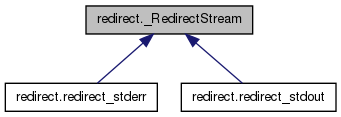
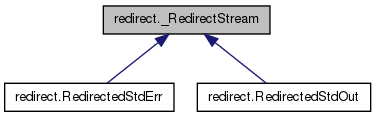
Automated documentation build for changeset faf66384ace8d232c6253e42a60ff0dd67d683bb.

diff --git a/html-docs/classes.html b/html-docs/classes.html
@@ -131,9 +131,9 @@ $(function() {
 </td><td valign="top"><a class="el" href="classtrace__analysis__logic_1_1TraceAnalysisLogic.html">TraceAnalysisLogic</a> (trace_analysis_logic)&#160;&#160;&#160;</td></tr>
 <tr><td valign="top"><a class="el" href="classgui_1_1confocal_1_1confocalgui_1_1ConfocalMainWindow.html">ConfocalMainWindow</a> (gui.confocal.confocalgui)&#160;&#160;&#160;</td><td valign="top"><a class="el" href="classfast__counter__dummy_1_1InterfaceImplementationError.html">InterfaceImplementationError</a> (fast_counter_dummy)&#160;&#160;&#160;</td><td valign="top"><a class="el" href="classok__fpga__pulser_1_1OkFpgaPulser.html">OkFpgaPulser</a> (ok_fpga_pulser)&#160;&#160;&#160;</td><td valign="top"><a class="el" href="classgui_1_1trayicon_1_1TrayIcon.html">TrayIcon</a> (gui.trayicon)&#160;&#160;&#160;</td></tr>
 <tr><td valign="top"><a class="el" href="classconfocal__scanner__dummy_1_1ConfocalScannerDummy.html">ConfocalScannerDummy</a> (confocal_scanner_dummy)&#160;&#160;&#160;</td><td valign="top"><a class="el" href="classcore_1_1util_1_1interfaces_1_1InterfaceMetaclass.html">InterfaceMetaclass</a> (core.util.interfaces)&#160;&#160;&#160;</td><td valign="top"><a class="el" href="classok__fpga__switch_1_1OkFpgaTtlSwitch.html">OkFpgaTtlSwitch</a> (ok_fpga_switch)&#160;&#160;&#160;</td><td valign="top"><a class="el" href="classcore_1_1util_1_1mutex_1_1RecursiveMutex.html">RecursiveMutex</a> (core.util.mutex)&#160;&#160;&#160;</td><td valign="top"><a class="el" href="classautomation_1_1TreeItem.html">TreeItem</a> (automation)&#160;&#160;&#160;</td></tr>
-<tr><td valign="top"><a class="el" href="classconfocal__scanner__interface_1_1ConfocalScannerInterface.html">ConfocalScannerInterface</a> (confocal_scanner_interface)&#160;&#160;&#160;</td><td valign="top"><a class="el" href="classgeneric__task_1_1InterruptableTask.html">InterruptableTask</a> (generic_task)&#160;&#160;&#160;</td><td valign="top"><a class="el" href="classconfocal__logic_1_1OldConfigFileError.html">OldConfigFileError</a> (confocal_logic)&#160;&#160;&#160;</td><td valign="top"><a class="el" href="classredirect_1_1redirect__stderr.html">redirect_stderr</a> (redirect)&#160;&#160;&#160;</td><td valign="top"><a class="el" href="classautomation_1_1TreeModel.html">TreeModel</a> (automation)&#160;&#160;&#160;</td></tr>
+<tr><td valign="top"><a class="el" href="classconfocal__scanner__interface_1_1ConfocalScannerInterface.html">ConfocalScannerInterface</a> (confocal_scanner_interface)&#160;&#160;&#160;</td><td valign="top"><a class="el" href="classgeneric__task_1_1InterruptableTask.html">InterruptableTask</a> (generic_task)&#160;&#160;&#160;</td><td valign="top"><a class="el" href="classconfocal__logic_1_1OldConfigFileError.html">OldConfigFileError</a> (confocal_logic)&#160;&#160;&#160;</td><td valign="top"><a class="el" href="classredirect_1_1RedirectedStdErr.html">RedirectedStdErr</a> (redirect)&#160;&#160;&#160;</td><td valign="top"><a class="el" href="classautomation_1_1TreeModel.html">TreeModel</a> (automation)&#160;&#160;&#160;</td></tr>
 <tr><td valign="top"><a class="el" href="classmw__differential__scanner_1_1ConfocalScannerInterfaceDummy.html">ConfocalScannerInterfaceDummy</a> (mw_differential_scanner)&#160;&#160;&#160;</td><td rowspan="2" valign="bottom"><a name="letter_l"></a><table border="0" cellspacing="0" cellpadding="0"><tr><td><div class="ah">&#160;&#160;l&#160;&#160;</div></td></tr></table>
-</td><td valign="top"><a class="el" href="classoptimizer__logic_1_1OptimizerLogic.html">OptimizerLogic</a> (optimizer_logic)&#160;&#160;&#160;</td><td valign="top"><a class="el" href="classredirect_1_1redirect__stdout.html">redirect_stdout</a> (redirect)&#160;&#160;&#160;</td><td valign="top"><a class="el" href="classmicrowave__interface_1_1TriggerEdge.html">TriggerEdge</a> (microwave_interface)&#160;&#160;&#160;</td></tr>
+</td><td valign="top"><a class="el" href="classoptimizer__logic_1_1OptimizerLogic.html">OptimizerLogic</a> (optimizer_logic)&#160;&#160;&#160;</td><td valign="top"><a class="el" href="classredirect_1_1RedirectedStdOut.html">RedirectedStdOut</a> (redirect)&#160;&#160;&#160;</td><td valign="top"><a class="el" href="classmicrowave__interface_1_1TriggerEdge.html">TriggerEdge</a> (microwave_interface)&#160;&#160;&#160;</td></tr>
 <tr><td valign="top"><a class="el" href="classgui_1_1confocal_1_1confocalgui_1_1ConfocalSettingDialog.html">ConfocalSettingDialog</a> (gui.confocal.confocalgui)&#160;&#160;&#160;</td><td valign="top"><a class="el" href="classgui_1_1confocal_1_1confocalgui_1_1OptimizerSettingDialog.html">OptimizerSettingDialog</a> (gui.confocal.confocalgui)&#160;&#160;&#160;</td><td valign="top"><a class="el" href="classcore_1_1remote_1_1RemoteModule.html">RemoteModule</a> (core.remote)&#160;&#160;&#160;</td><td valign="top"><a class="el" href="classtsys01__spi_1_1TSYS01SPI.html">TSYS01SPI</a> (tsys01_spi)&#160;&#160;&#160;</td></tr>
 <tr><td valign="top"><a class="el" href="classgui_1_1manager_1_1managergui_1_1ConsoleSettingsDialog.html">ConsoleSettingsDialog</a> (gui.manager.managergui)&#160;&#160;&#160;</td><td valign="top"><a class="el" href="classlaser_1_1LaserGUI.html">LaserGUI</a> (laser)&#160;&#160;&#160;</td><td rowspan="2" valign="bottom"><a name="letter_p"></a><table border="0" cellspacing="0" cellpadding="0"><tr><td><div class="ah">&#160;&#160;p&#160;&#160;</div></td></tr></table>
 </td><td valign="top"><a class="el" href="classcore_1_1remote_1_1RemoteObjectManager.html">RemoteObjectManager</a> (core.remote)&#160;&#160;&#160;</td><td rowspan="2" valign="bottom"><a name="letter_v"></a><table border="0" cellspacing="0" cellpadding="0"><tr><td><div class="ah">&#160;&#160;v&#160;&#160;</div></td></tr></table>

diff --git a/html-docs/classredirect_1_1RedirectedStdErr.html b/html-docs/classredirect_1_1RedirectedStdErr.html
@@ -5,7 +5,7 @@
 <meta http-equiv="X-UA-Compatible" content="IE=9"/>
 <meta name="generator" content="Doxygen 1.8.13"/>
 <meta name="viewport" content="width=device-width, initial-scale=1"/>
-<title>Qudi: redirect.redirect_stdout Class Reference</title>
+<title>Qudi: redirect.RedirectedStdErr Class Reference</title>
 <link href="tabs.css" rel="stylesheet" type="text/css"/>
 <script type="text/javascript" src="jquery.js"></script>
 <script type="text/javascript" src="dynsections.js"></script>
@@ -58,33 +58,33 @@ $(function() {
 
 <div id="nav-path" class="navpath">
   <ul>
-<li class="navelem"><b>redirect</b></li><li class="navelem"><a class="el" href="classredirect_1_1redirect__stdout.html">redirect_stdout</a></li>  </ul>
+<li class="navelem"><b>redirect</b></li><li class="navelem"><a class="el" href="classredirect_1_1RedirectedStdErr.html">RedirectedStdErr</a></li>  </ul>
 </div>
 </div><!-- top -->
 <div class="header">
   <div class="summary">
-<a href="classredirect_1_1redirect__stdout-members.html">List of all members</a>  </div>
+<a href="classredirect_1_1RedirectedStdErr-members.html">List of all members</a>  </div>
   <div class="headertitle">
-<div class="title">redirect.redirect_stdout Class Reference</div>  </div>
+<div class="title">redirect.RedirectedStdErr Class Reference</div>  </div>
 </div><!--header-->
 <div class="contents">
 
-<p>Context manager for temporarily redirecting stdout to another file.  
- <a href="classredirect_1_1redirect__stdout.html#details">More...</a></p>
+<p>Context manager for temporarily redirecting stderr to another file.  
+ <a href="classredirect_1_1RedirectedStdErr.html#details">More...</a></p>
 <div class="dynheader">
-Inheritance diagram for redirect.redirect_stdout:</div>
+Inheritance diagram for redirect.RedirectedStdErr:</div>
 <div class="dyncontent">
-<div class="center"><img src="classredirect_1_1redirect__stdout__inherit__graph.png" border="0" usemap="#redirect_8redirect__stdout_inherit__map" alt="Inheritance graph"/></div>
-<map name="redirect_8redirect__stdout_inherit__map" id="redirect_8redirect__stdout_inherit__map">
-<area shape="rect" id="node2" href="classredirect_1_1__RedirectStream.html" title="A base class for a context manager to redirect streams from the sys module. " alt="" coords="5,5,171,35"/>
+<div class="center"><img src="classredirect_1_1RedirectedStdErr__inherit__graph.png" border="0" usemap="#redirect_8RedirectedStdErr_inherit__map" alt="Inheritance graph"/></div>
+<map name="redirect_8RedirectedStdErr_inherit__map" id="redirect_8RedirectedStdErr_inherit__map">
+<area shape="rect" id="node2" href="classredirect_1_1__RedirectStream.html" title="A base class for a context manager to redirect streams from the sys module. " alt="" coords="7,5,172,35"/>
 </map>
 <center><span class="legend">[<a href="graph_legend.html">legend</a>]</span></center></div>
 <div class="dynheader">
-Collaboration diagram for redirect.redirect_stdout:</div>
+Collaboration diagram for redirect.RedirectedStdErr:</div>
 <div class="dyncontent">
-<div class="center"><img src="classredirect_1_1redirect__stdout__coll__graph.png" border="0" usemap="#redirect_8redirect__stdout_coll__map" alt="Collaboration graph"/></div>
-<map name="redirect_8redirect__stdout_coll__map" id="redirect_8redirect__stdout_coll__map">
-<area shape="rect" id="node2" href="classredirect_1_1__RedirectStream.html" title="A base class for a context manager to redirect streams from the sys module. " alt="" coords="5,5,171,35"/>
+<div class="center"><img src="classredirect_1_1RedirectedStdErr__coll__graph.png" border="0" usemap="#redirect_8RedirectedStdErr_coll__map" alt="Collaboration graph"/></div>
+<map name="redirect_8RedirectedStdErr_coll__map" id="redirect_8RedirectedStdErr_coll__map">
+<area shape="rect" id="node2" href="classredirect_1_1__RedirectStream.html" title="A base class for a context manager to redirect streams from the sys module. " alt="" coords="7,5,172,35"/>
 </map>
 <center><span class="legend">[<a href="graph_legend.html">legend</a>]</span></center></div>
 <table class="memberdecls">
@@ -102,7 +102,7 @@ def&#160;</td><td class="memItemRight" valign="bottom"><b>__exit__</b> (self, ex
 <tr class="separator:a74fb842fb74b35fe0133f74d870e32a0 inherit pub_methods_classredirect_1_1__RedirectStream"><td class="memSeparator" colspan="2">&#160;</td></tr>
 </table>
 <a name="details" id="details"></a><h2 class="groupheader">Detailed Description</h2>
-<div class="textblock"><p>Context manager for temporarily redirecting stdout to another file. </p>
+<div class="textblock"><p>Context manager for temporarily redirecting stderr to another file. </p>
 </div><hr/>The documentation for this class was generated from the following file:<ul>
 <li>logic/jupyterkernel/redirect.py</li>
 </ul>

diff --git a/html-docs/classredirect_1_1RedirectedStdOut.html b/html-docs/classredirect_1_1RedirectedStdOut.html
@@ -5,7 +5,7 @@
 <meta http-equiv="X-UA-Compatible" content="IE=9"/>
 <meta name="generator" content="Doxygen 1.8.13"/>
 <meta name="viewport" content="width=device-width, initial-scale=1"/>
-<title>Qudi: redirect.redirect_stderr Class Reference</title>
+<title>Qudi: redirect.RedirectedStdOut Class Reference</title>
 <link href="tabs.css" rel="stylesheet" type="text/css"/>
 <script type="text/javascript" src="jquery.js"></script>
 <script type="text/javascript" src="dynsections.js"></script>
@@ -58,33 +58,33 @@ $(function() {
 
 <div id="nav-path" class="navpath">
   <ul>
-<li class="navelem"><b>redirect</b></li><li class="navelem"><a class="el" href="classredirect_1_1redirect__stderr.html">redirect_stderr</a></li>  </ul>
+<li class="navelem"><b>redirect</b></li><li class="navelem"><a class="el" href="classredirect_1_1RedirectedStdOut.html">RedirectedStdOut</a></li>  </ul>
 </div>
 </div><!-- top -->
 <div class="header">
   <div class="summary">
-<a href="classredirect_1_1redirect__stderr-members.html">List of all members</a>  </div>
+<a href="classredirect_1_1RedirectedStdOut-members.html">List of all members</a>  </div>
   <div class="headertitle">
-<div class="title">redirect.redirect_stderr Class Reference</div>  </div>
+<div class="title">redirect.RedirectedStdOut Class Reference</div>  </div>
 </div><!--header-->
 <div class="contents">
 
-<p>Context manager for temporarily redirecting stderr to another file.  
- <a href="classredirect_1_1redirect__stderr.html#details">More...</a></p>
+<p>Context manager for temporarily redirecting stdout to another file.  
+ <a href="classredirect_1_1RedirectedStdOut.html#details">More...</a></p>
 <div class="dynheader">
-Inheritance diagram for redirect.redirect_stderr:</div>
+Inheritance diagram for redirect.RedirectedStdOut:</div>
 <div class="dyncontent">
-<div class="center"><img src="classredirect_1_1redirect__stderr__inherit__graph.png" border="0" usemap="#redirect_8redirect__stderr_inherit__map" alt="Inheritance graph"/></div>
-<map name="redirect_8redirect__stderr_inherit__map" id="redirect_8redirect__stderr_inherit__map">
-<area shape="rect" id="node2" href="classredirect_1_1__RedirectStream.html" title="A base class for a context manager to redirect streams from the sys module. " alt="" coords="5,5,171,35"/>
+<div class="center"><img src="classredirect_1_1RedirectedStdOut__inherit__graph.png" border="0" usemap="#redirect_8RedirectedStdOut_inherit__map" alt="Inheritance graph"/></div>
+<map name="redirect_8RedirectedStdOut_inherit__map" id="redirect_8RedirectedStdOut_inherit__map">
+<area shape="rect" id="node2" href="classredirect_1_1__RedirectStream.html" title="A base class for a context manager to redirect streams from the sys module. " alt="" coords="9,5,175,35"/>
 </map>
 <center><span class="legend">[<a href="graph_legend.html">legend</a>]</span></center></div>
 <div class="dynheader">
-Collaboration diagram for redirect.redirect_stderr:</div>
+Collaboration diagram for redirect.RedirectedStdOut:</div>
 <div class="dyncontent">
-<div class="center"><img src="classredirect_1_1redirect__stderr__coll__graph.png" border="0" usemap="#redirect_8redirect__stderr_coll__map" alt="Collaboration graph"/></div>
-<map name="redirect_8redirect__stderr_coll__map" id="redirect_8redirect__stderr_coll__map">
-<area shape="rect" id="node2" href="classredirect_1_1__RedirectStream.html" title="A base class for a context manager to redirect streams from the sys module. " alt="" coords="5,5,171,35"/>
+<div class="center"><img src="classredirect_1_1RedirectedStdOut__coll__graph.png" border="0" usemap="#redirect_8RedirectedStdOut_coll__map" alt="Collaboration graph"/></div>
+<map name="redirect_8RedirectedStdOut_coll__map" id="redirect_8RedirectedStdOut_coll__map">
+<area shape="rect" id="node2" href="classredirect_1_1__RedirectStream.html" title="A base class for a context manager to redirect streams from the sys module. " alt="" coords="9,5,175,35"/>
 </map>
 <center><span class="legend">[<a href="graph_legend.html">legend</a>]</span></center></div>
 <table class="memberdecls">
@@ -102,7 +102,7 @@ def&#160;</td><td class="memItemRight" valign="bottom"><b>__exit__</b> (self, ex
 <tr class="separator:a74fb842fb74b35fe0133f74d870e32a0 inherit pub_methods_classredirect_1_1__RedirectStream"><td class="memSeparator" colspan="2">&#160;</td></tr>
 </table>
 <a name="details" id="details"></a><h2 class="groupheader">Detailed Description</h2>
-<div class="textblock"><p>Context manager for temporarily redirecting stderr to another file. </p>
+<div class="textblock"><p>Context manager for temporarily redirecting stdout to another file. </p>
 </div><hr/>The documentation for this class was generated from the following file:<ul>
 <li>logic/jupyterkernel/redirect.py</li>
 </ul>

diff --git a/html-docs/hierarchy.html b/html-docs/hierarchy.html
@@ -67,8 +67,8 @@ $(function() {
 This inheritance list is sorted roughly, but not completely, alphabetically:</div><div class="directory">
 <div class="levels">[detail level <span onclick="javascript:toggleLevel(1);">1</span><span onclick="javascript:toggleLevel(2);">2</span><span onclick="javascript:toggleLevel(3);">3</span><span onclick="javascript:toggleLevel(4);">4</span>]</div><table class="directory">
 <tr id="row_0_" class="even"><td class="entry"><span style="width:0px;display:inline-block;">&#160;</span><span id="arr_0_" class="arrow" onclick="toggleFolder('0_')">&#9658;</span><span class="icona"><span class="icon">C</span></span><a class="el" href="classredirect_1_1__RedirectStream.html" target="_self">redirect._RedirectStream</a></td><td class="desc">A base class for a context manager to redirect streams from the sys module </td></tr>
-<tr id="row_0_0_" style="display:none;"><td class="entry"><span style="width:32px;display:inline-block;">&#160;</span><span class="icona"><span class="icon">C</span></span><a class="el" href="classredirect_1_1redirect__stderr.html" target="_self">redirect.redirect_stderr</a></td><td class="desc">Context manager for temporarily redirecting stderr to another file </td></tr>
-<tr id="row_0_1_" style="display:none;"><td class="entry"><span style="width:32px;display:inline-block;">&#160;</span><span class="icona"><span class="icon">C</span></span><a class="el" href="classredirect_1_1redirect__stdout.html" target="_self">redirect.redirect_stdout</a></td><td class="desc">Context manager for temporarily redirecting stdout to another file </td></tr>
+<tr id="row_0_0_" style="display:none;"><td class="entry"><span style="width:32px;display:inline-block;">&#160;</span><span class="icona"><span class="icon">C</span></span><a class="el" href="classredirect_1_1RedirectedStdErr.html" target="_self">redirect.RedirectedStdErr</a></td><td class="desc">Context manager for temporarily redirecting stderr to another file </td></tr>
+<tr id="row_0_1_" style="display:none;"><td class="entry"><span style="width:32px;display:inline-block;">&#160;</span><span class="icona"><span class="icon">C</span></span><a class="el" href="classredirect_1_1RedirectedStdOut.html" target="_self">redirect.RedirectedStdOut</a></td><td class="desc">Context manager for temporarily redirecting stdout to another file </td></tr>
 <tr id="row_1_"><td class="entry"><span style="width:0px;display:inline-block;">&#160;</span><span id="arr_1_" class="arrow" onclick="toggleFolder('1_')">&#9658;</span><span class="icona"><span class="icon">C</span></span><b>ABCMeta</b></td><td class="desc"></td></tr>
 <tr id="row_1_0_" class="even" style="display:none;"><td class="entry"><span style="width:16px;display:inline-block;">&#160;</span><span id="arr_1_0_" class="arrow" onclick="toggleFolder('1_0_')">&#9658;</span><span class="icona"><span class="icon">C</span></span><a class="el" href="classcore_1_1util_1_1interfaces_1_1InterfaceMetaclass.html" target="_self">core.util.interfaces.InterfaceMetaclass</a></td><td class="desc">Metaclass for interfaces </td></tr>
 <tr id="row_1_0_0_" class="even" style="display:none;"><td class="entry"><span style="width:48px;display:inline-block;">&#160;</span><span class="icona"><span class="icon">C</span></span><a class="el" href="classconfocal__scanner__interface_1_1ConfocalScannerInterface.html" target="_self">confocal_scanner_interface.ConfocalScannerInterface</a></td><td class="desc">This is the Interface class to define the controls for the simple microwave hardware </td></tr>

diff --git a/html-docs/annotated.html b/html-docs/annotated.html
@@ -492,8 +492,8 @@ $(function() {
 <tr id="row_98_1_" style="display:none;"><td class="entry"><span style="width:32px;display:inline-block;">&#160;</span><span class="icona"><span class="icon">C</span></span><a class="el" href="classqzmqkernel_1_1QZMQKernel.html" target="_self">QZMQKernel</a></td><td class="desc">A Qt-based embeddable kernel for Jupyter </td></tr>
 <tr id="row_99_"><td class="entry"><span style="width:0px;display:inline-block;">&#160;</span><span id="arr_99_" class="arrow" onclick="toggleFolder('99_')">&#9658;</span><span class="icona"><span class="icon">N</span></span><b>redirect</b></td><td class="desc"></td></tr>
 <tr id="row_99_0_" class="even" style="display:none;"><td class="entry"><span style="width:32px;display:inline-block;">&#160;</span><span class="icona"><span class="icon">C</span></span><a class="el" href="classredirect_1_1__RedirectStream.html" target="_self">_RedirectStream</a></td><td class="desc">A base class for a context manager to redirect streams from the sys module </td></tr>
-<tr id="row_99_1_" class="even" style="display:none;"><td class="entry"><span style="width:32px;display:inline-block;">&#160;</span><span class="icona"><span class="icon">C</span></span><a class="el" href="classredirect_1_1redirect__stderr.html" target="_self">redirect_stderr</a></td><td class="desc">Context manager for temporarily redirecting stderr to another file </td></tr>
-<tr id="row_99_2_" class="even" style="display:none;"><td class="entry"><span style="width:32px;display:inline-block;">&#160;</span><span class="icona"><span class="icon">C</span></span><a class="el" href="classredirect_1_1redirect__stdout.html" target="_self">redirect_stdout</a></td><td class="desc">Context manager for temporarily redirecting stdout to another file </td></tr>
+<tr id="row_99_1_" class="even" style="display:none;"><td class="entry"><span style="width:32px;display:inline-block;">&#160;</span><span class="icona"><span class="icon">C</span></span><a class="el" href="classredirect_1_1RedirectedStdErr.html" target="_self">RedirectedStdErr</a></td><td class="desc">Context manager for temporarily redirecting stderr to another file </td></tr>
+<tr id="row_99_2_" class="even" style="display:none;"><td class="entry"><span style="width:32px;display:inline-block;">&#160;</span><span class="icona"><span class="icon">C</span></span><a class="el" href="classredirect_1_1RedirectedStdOut.html" target="_self">RedirectedStdOut</a></td><td class="desc">Context manager for temporarily redirecting stdout to another file </td></tr>
 <tr id="row_100_" class="even"><td class="entry"><span style="width:0px;display:inline-block;">&#160;</span><span id="arr_100_" class="arrow" onclick="toggleFolder('100_')">&#9658;</span><span class="icona"><span class="icon">N</span></span><b>samples_write_methods</b></td><td class="desc"></td></tr>
 <tr id="row_100_0_" style="display:none;"><td class="entry"><span style="width:32px;display:inline-block;">&#160;</span><span class="icona"><span class="icon">C</span></span><a class="el" href="classsamples__write__methods_1_1SamplesWriteMethods.html" target="_self">SamplesWriteMethods</a></td><td class="desc"></td></tr>
 <tr id="row_101_"><td class="entry"><span style="width:0px;display:inline-block;">&#160;</span><span id="arr_101_" class="arrow" onclick="toggleFolder('101_')">&#9658;</span><span class="icona"><span class="icon">N</span></span><b>sampling_functions</b></td><td class="desc"></td></tr>

diff --git a/html-docs/classredirect_1_1RedirectedStdErr-members.html b/html-docs/classredirect_1_1RedirectedStdErr-members.html
@@ -58,16 +58,16 @@ $(function() {
 
 <div id="nav-path" class="navpath">
   <ul>
-<li class="navelem"><b>redirect</b></li><li class="navelem"><a class="el" href="classredirect_1_1redirect__stdout.html">redirect_stdout</a></li>  </ul>
+<li class="navelem"><b>redirect</b></li><li class="navelem"><a class="el" href="classredirect_1_1RedirectedStdErr.html">RedirectedStdErr</a></li>  </ul>
 </div>
 </div><!-- top -->
 <div class="header">
   <div class="headertitle">
-<div class="title">redirect.redirect_stdout Member List</div>  </div>
+<div class="title">redirect.RedirectedStdErr Member List</div>  </div>
 </div><!--header-->
 <div class="contents">
 
-<p>This is the complete list of members for <a class="el" href="classredirect_1_1redirect__stdout.html">redirect.redirect_stdout</a>, including all inherited members.</p>
+<p>This is the complete list of members for <a class="el" href="classredirect_1_1RedirectedStdErr.html">redirect.RedirectedStdErr</a>, including all inherited members.</p>
 <table class="directory">
   <tr bgcolor="#f0f0f0" class="even"><td class="entry"><b>__enter__</b>(self) (defined in <a class="el" href="classredirect_1_1__RedirectStream.html">redirect._RedirectStream</a>)</td><td class="entry"><a class="el" href="classredirect_1_1__RedirectStream.html">redirect._RedirectStream</a></td><td class="entry"></td></tr>
   <tr bgcolor="#f0f0f0"><td class="entry"><b>__exit__</b>(self, exctype, excinst, exctb) (defined in <a class="el" href="classredirect_1_1__RedirectStream.html">redirect._RedirectStream</a>)</td><td class="entry"><a class="el" href="classredirect_1_1__RedirectStream.html">redirect._RedirectStream</a></td><td class="entry"></td></tr>

diff --git a/html-docs/classredirect_1_1RedirectedStdOut-members.html b/html-docs/classredirect_1_1RedirectedStdOut-members.html
@@ -58,16 +58,16 @@ $(function() {
 
 <div id="nav-path" class="navpath">
   <ul>
-<li class="navelem"><b>redirect</b></li><li class="navelem"><a class="el" href="classredirect_1_1redirect__stderr.html">redirect_stderr</a></li>  </ul>
+<li class="navelem"><b>redirect</b></li><li class="navelem"><a class="el" href="classredirect_1_1RedirectedStdOut.html">RedirectedStdOut</a></li>  </ul>
 </div>
 </div><!-- top -->
 <div class="header">
   <div class="headertitle">
-<div class="title">redirect.redirect_stderr Member List</div>  </div>
+<div class="title">redirect.RedirectedStdOut Member List</div>  </div>
 </div><!--header-->
 <div class="contents">
 
-<p>This is the complete list of members for <a class="el" href="classredirect_1_1redirect__stderr.html">redirect.redirect_stderr</a>, including all inherited members.</p>
+<p>This is the complete list of members for <a class="el" href="classredirect_1_1RedirectedStdOut.html">redirect.RedirectedStdOut</a>, including all inherited members.</p>
 <table class="directory">
   <tr bgcolor="#f0f0f0" class="even"><td class="entry"><b>__enter__</b>(self) (defined in <a class="el" href="classredirect_1_1__RedirectStream.html">redirect._RedirectStream</a>)</td><td class="entry"><a class="el" href="classredirect_1_1__RedirectStream.html">redirect._RedirectStream</a></td><td class="entry"></td></tr>
   <tr bgcolor="#f0f0f0"><td class="entry"><b>__exit__</b>(self, exctype, excinst, exctb) (defined in <a class="el" href="classredirect_1_1__RedirectStream.html">redirect._RedirectStream</a>)</td><td class="entry"><a class="el" href="classredirect_1_1__RedirectStream.html">redirect._RedirectStream</a></td><td class="entry"></td></tr>

diff --git a/html-docs/search/all_12.js b/html-docs/search/all_12.js
@@ -18,8 +18,8 @@ var searchData=
   ['recursiveload',['recursiveLoad',['../classautomation_1_1TreeModel.html#abd74f1921f5df33e76b395b14e7b0911',1,'automation::TreeModel']]],
   ['recursivemutex',['RecursiveMutex',['../classcore_1_1util_1_1mutex_1_1RecursiveMutex.html',1,'core::util::mutex']]],
   ['recursivesave',['recursiveSave',['../classautomation_1_1TreeModel.html#afafe4426df7bc4ada2ac2bfdb52d708f',1,'automation::TreeModel']]],
-  ['redirect_5fstderr',['redirect_stderr',['../classredirect_1_1redirect__stderr.html',1,'redirect']]],
-  ['redirect_5fstdout',['redirect_stdout',['../classredirect_1_1redirect__stdout.html',1,'redirect']]],
+  ['redirectedstderr',['RedirectedStdErr',['../classredirect_1_1RedirectedStdErr.html',1,'redirect']]],
+  ['redirectedstdout',['RedirectedStdOut',['../classredirect_1_1RedirectedStdOut.html',1,'redirect']]],
   ['ref_5fa_5fat_5fcrosshair',['ref_a_at_crosshair',['../classgui_1_1poimanager_1_1poimangui_1_1PoiManagerGui.html#aa159b62034a0410ed4be7e6b6d1071aa',1,'gui::poimanager::poimangui::PoiManagerGui']]],
   ['ref_5fb_5fat_5fcrosshair',['ref_b_at_crosshair',['../classgui_1_1poimanager_1_1poimangui_1_1PoiManagerGui.html#a586d377df98fc62ad286f747d43e863e',1,'gui::poimanager::poimangui::PoiManagerGui']]],
   ['ref_5fc_5fat_5fcrosshair',['ref_c_at_crosshair',['../classgui_1_1poimanager_1_1poimangui_1_1PoiManagerGui.html#a04d46cc456d8789e1a92b444a2c4aa31',1,'gui::poimanager::poimangui::PoiManagerGui']]],

diff --git a/html-docs/inherits.html b/html-docs/inherits.html
@@ -635,8 +635,8 @@ $(function() {
 <tr><td><img src="inherit_graph_65.png" border="0" alt="" usemap="#redirect_8__RedirectStream"/>
 <map name="redirect_8__RedirectStream" id="redirect_8__RedirectStream">
 <area shape="rect" id="node1" href="classredirect_1_1__RedirectStream.html" title="A base class for a context manager to redirect streams from the sys module. " alt="" coords="7,32,172,61"/>
-<area shape="rect" id="node3" href="classredirect_1_1redirect__stderr.html" title="Context manager for temporarily redirecting stderr to another file. " alt="" coords="223,5,375,35"/>
-<area shape="rect" id="node5" href="classredirect_1_1redirect__stdout.html" title="Context manager for temporarily redirecting stdout to another file. " alt="" coords="221,59,376,88"/>
+<area shape="rect" id="node3" href="classredirect_1_1RedirectedStdErr.html" title="Context manager for temporarily redirecting stderr to another file. " alt="" coords="224,5,392,35"/>
+<area shape="rect" id="node5" href="classredirect_1_1RedirectedStdOut.html" title="Context manager for temporarily redirecting stdout to another file. " alt="" coords="221,59,395,88"/>
 </map>
 </td></tr>
 <tr><td><img src="inherit_graph_66.png" border="0" alt="" usemap="#samples__write__methods_8SamplesWriteMethods"/>

diff --git a/html-docs/classredirect_1_1__RedirectStream.html b/html-docs/classredirect_1_1__RedirectStream.html
@@ -77,8 +77,8 @@ Inheritance diagram for redirect._RedirectStream:</div>
 <div class="dyncontent">
 <div class="center"><img src="classredirect_1_1__RedirectStream__inherit__graph.png" border="0" usemap="#redirect_8__RedirectStream_inherit__map" alt="Inheritance graph"/></div>
 <map name="redirect_8__RedirectStream_inherit__map" id="redirect_8__RedirectStream_inherit__map">
-<area shape="rect" id="node3" href="classredirect_1_1redirect__stderr.html" title="Context manager for temporarily redirecting stderr to another file. " alt="" coords="5,83,157,112"/>
-<area shape="rect" id="node5" href="classredirect_1_1redirect__stdout.html" title="Context manager for temporarily redirecting stdout to another file. " alt="" coords="181,83,336,112"/>
+<area shape="rect" id="node3" href="classredirect_1_1RedirectedStdErr.html" title="Context manager for temporarily redirecting stderr to another file. " alt="" coords="5,83,173,112"/>
+<area shape="rect" id="node5" href="classredirect_1_1RedirectedStdOut.html" title="Context manager for temporarily redirecting stdout to another file. " alt="" coords="197,83,371,112"/>
 </map>
 <center><span class="legend">[<a href="graph_legend.html">legend</a>]</span></center></div>
 <table class="memberdecls">

diff --git a/html-docs/search/classes_10.js b/html-docs/search/classes_10.js
@@ -1,8 +1,8 @@
 var searchData=
 [
   ['recursivemutex',['RecursiveMutex',['../classcore_1_1util_1_1mutex_1_1RecursiveMutex.html',1,'core::util::mutex']]],
-  ['redirect_5fstderr',['redirect_stderr',['../classredirect_1_1redirect__stderr.html',1,'redirect']]],
-  ['redirect_5fstdout',['redirect_stdout',['../classredirect_1_1redirect__stdout.html',1,'redirect']]],
+  ['redirectedstderr',['RedirectedStdErr',['../classredirect_1_1RedirectedStdErr.html',1,'redirect']]],
+  ['redirectedstdout',['RedirectedStdOut',['../classredirect_1_1RedirectedStdOut.html',1,'redirect']]],
   ['remotemodule',['RemoteModule',['../classcore_1_1remote_1_1RemoteModule.html',1,'core::remote']]],
   ['remoteobjectmanager',['RemoteObjectManager',['../classcore_1_1remote_1_1RemoteObjectManager.html',1,'core::remote']]],
   ['remotewidget',['RemoteWidget',['../classgui_1_1manager_1_1remotewidget_1_1RemoteWidget.html',1,'gui::manager::remotewidget']]],
